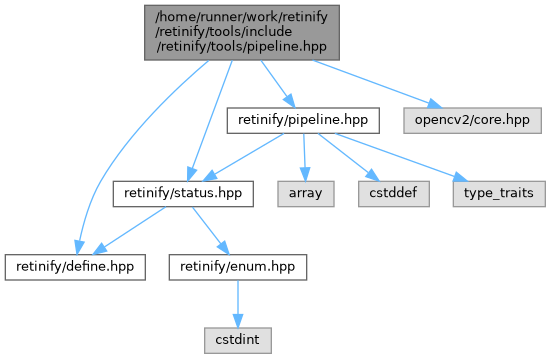
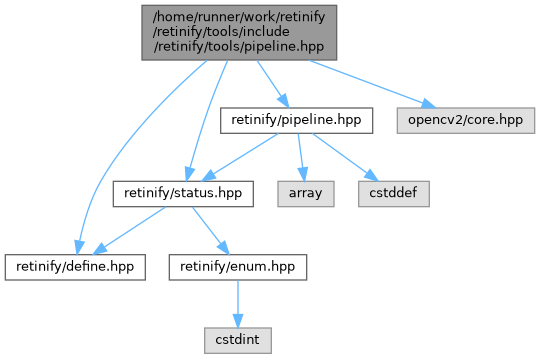
deploy: 53f699b59821ff838156896381415b0f55b13c6b

diff --git a/core_2include_2retinify_2pipeline_8hpp_source.html b/core_2include_2retinify_2pipeline_8hpp_source.html
@@ -115,37 +115,36 @@ $(document).ready(function(){initNavTree('core_2include_2retinify_2pipeline_8hpp
 <div class="line"><a id="l00007" name="l00007"></a><span class="lineno">    7</span> </div>
 <div class="line"><a id="l00008" name="l00008"></a><span class="lineno">    8</span><span class="preprocessor">#include &lt;array&gt;</span></div>
 <div class="line"><a id="l00009" name="l00009"></a><span class="lineno">    9</span><span class="preprocessor">#include &lt;cstddef&gt;</span></div>
-<div class="line"><a id="l00010" name="l00010"></a><span class="lineno">   10</span><span class="preprocessor">#include &lt;type_traits&gt;</span></div>
-<div class="line"><a id="l00011" name="l00011"></a><span class="lineno">   11</span> </div>
-<div class="line"><a id="l00012" name="l00012"></a><span class="lineno">   12</span><span class="keyword">namespace </span><a class="code hl_namespace" href="namespaceretinify.html">retinify</a></div>
-<div class="line"><a id="l00013" name="l00013"></a><span class="lineno">   13</span>{</div>
-<div class="foldopen" id="foldopen00016" data-start="{" data-end="};">
-<div class="line"><a id="l00016" name="l00016"></a><span class="lineno"><a class="line" href="classretinify_1_1Pipeline.html">   16</a></span><span class="keyword">class </span><a class="code hl_define" href="define_8hpp.html#a26f652e8294f73d41c56d880ace92d28">RETINIFY_API</a> <a class="code hl_class" href="classretinify_1_1Pipeline.html">Pipeline</a></div>
-<div class="line"><a id="l00017" name="l00017"></a><span class="lineno">   17</span>{</div>
-<div class="line"><a id="l00018" name="l00018"></a><span class="lineno">   18</span>  <span class="keyword">public</span>:</div>
-<div class="line"><a id="l00019" name="l00019"></a><span class="lineno"><a class="line" href="classretinify_1_1Pipeline.html#aff420a8fba6a6584f4ef975dd2eed698">   19</a></span>    <a class="code hl_function" href="classretinify_1_1Pipeline.html#aff420a8fba6a6584f4ef975dd2eed698">Pipeline</a>() noexcept;</div>
-<div class="line"><a id="l00020" name="l00020"></a><span class="lineno"><a class="line" href="classretinify_1_1Pipeline.html#a2d1da2bea43ac3444ee70c3c123e61ff">   20</a></span>    ~<a class="code hl_class" href="classretinify_1_1Pipeline.html">Pipeline</a>() noexcept;</div>
-<div class="line"><a id="l00021" name="l00021"></a><span class="lineno"><a class="line" href="classretinify_1_1Pipeline.html#ab25709bd44d66d886c56657553fd25c1">   21</a></span>    <a class="code hl_class" href="classretinify_1_1Pipeline.html">Pipeline</a>(const <a class="code hl_class" href="classretinify_1_1Pipeline.html">Pipeline</a> &amp;) = delete;</div>
-<div class="line"><a id="l00022" name="l00022"></a><span class="lineno"><a class="line" href="classretinify_1_1Pipeline.html#a809c7fe1f191752098716700ab01ba22">   22</a></span>    auto operator=(const <a class="code hl_class" href="classretinify_1_1Pipeline.html">Pipeline</a> &amp;) noexcept -&gt; <a class="code hl_class" href="classretinify_1_1Pipeline.html">Pipeline</a> &amp; = delete;</div>
-<div class="line"><a id="l00023" name="l00023"></a><span class="lineno"><a class="line" href="classretinify_1_1Pipeline.html#a98b1af42c11f725a00e73b93a135e182">   23</a></span>    <a class="code hl_class" href="classretinify_1_1Pipeline.html">Pipeline</a>(<a class="code hl_class" href="classretinify_1_1Pipeline.html">Pipeline</a> &amp;&amp;) noexcept = delete;</div>
-<div class="line"><a id="l00024" name="l00024"></a><span class="lineno"><a class="line" href="classretinify_1_1Pipeline.html#a33c3b968a968193cbe9bbeab89919e06">   24</a></span>    auto operator=(<a class="code hl_class" href="classretinify_1_1Pipeline.html">Pipeline</a> &amp;&amp;) noexcept -&gt; <a class="code hl_class" href="classretinify_1_1Pipeline.html">Pipeline</a> &amp; = delete;</div>
-<div class="line"><a id="l00025" name="l00025"></a><span class="lineno">   25</span> </div>
-<div class="line"><a id="l00034" name="l00034"></a><span class="lineno"><a class="line" href="classretinify_1_1Pipeline.html#a58bf1412b87dbce28ed35f855cee9a6a">   34</a></span>    [[nodiscard]] auto Initialize(std::<span class="keywordtype">size_t</span> imageHeight, std::<span class="keywordtype">size_t</span> imageWidth) noexcept -&gt; <a class="code hl_class" href="classretinify_1_1Status.html">Status</a>;</div>
-<div class="line"><a id="l00035" name="l00035"></a><span class="lineno">   35</span> </div>
-<div class="line"><a id="l00052" name="l00052"></a><span class="lineno"><a class="line" href="classretinify_1_1Pipeline.html#a8a88e85bf34dd801031544ee94c57b03">   52</a></span>    [[nodiscard]] auto Run(const <span class="keywordtype">void</span> *leftImageData, std::<span class="keywordtype">size_t</span> leftImageStride,   <span class="comment">//</span></div>
-<div class="line"><a id="l00053" name="l00053"></a><span class="lineno">   53</span>                           const <span class="keywordtype">void</span> *rightImageData, std::<span class="keywordtype">size_t</span> rightImageStride, <span class="comment">//</span></div>
-<div class="line"><a id="l00054" name="l00054"></a><span class="lineno">   54</span>                           <span class="keywordtype">void</span> *disparityData, std::<span class="keywordtype">size_t</span> disparityStride) const noexcept -&gt; <a class="code hl_class" href="classretinify_1_1Status.html">Status</a>;</div>
-<div class="line"><a id="l00055" name="l00055"></a><span class="lineno">   55</span> </div>
-<div class="line"><a id="l00056" name="l00056"></a><span class="lineno">   56</span>  private:</div>
-<div class="line"><a id="l00057" name="l00057"></a><span class="lineno">   57</span>    class Impl;</div>
-<div class="line"><a id="l00058" name="l00058"></a><span class="lineno">   58</span>    auto impl() noexcept -&gt; Impl *;</div>
-<div class="line"><a id="l00059" name="l00059"></a><span class="lineno">   59</span>    [[nodiscard]] auto impl() const noexcept -&gt; const Impl *;</div>
-<div class="line"><a id="l00060" name="l00060"></a><span class="lineno">   60</span>    static constexpr std::<span class="keywordtype">size_t</span> BufferSize = 512;</div>
-<div class="line"><a id="l00061" name="l00061"></a><span class="lineno">   61</span>    alignas(alignof(std::max_align_t)) std::array&lt;<span class="keywordtype">unsigned</span> <span class="keywordtype">char</span>, BufferSize&gt; buffer_{};</div>
-<div class="line"><a id="l00062" name="l00062"></a><span class="lineno">   62</span>};</div>
+<div class="line"><a id="l00010" name="l00010"></a><span class="lineno">   10</span> </div>
+<div class="line"><a id="l00011" name="l00011"></a><span class="lineno">   11</span><span class="keyword">namespace </span><a class="code hl_namespace" href="namespaceretinify.html">retinify</a></div>
+<div class="line"><a id="l00012" name="l00012"></a><span class="lineno">   12</span>{</div>
+<div class="foldopen" id="foldopen00015" data-start="{" data-end="};">
+<div class="line"><a id="l00015" name="l00015"></a><span class="lineno"><a class="line" href="classretinify_1_1Pipeline.html">   15</a></span><span class="keyword">class </span><a class="code hl_define" href="define_8hpp.html#a26f652e8294f73d41c56d880ace92d28">RETINIFY_API</a> <a class="code hl_class" href="classretinify_1_1Pipeline.html">Pipeline</a></div>
+<div class="line"><a id="l00016" name="l00016"></a><span class="lineno">   16</span>{</div>
+<div class="line"><a id="l00017" name="l00017"></a><span class="lineno">   17</span>  <span class="keyword">public</span>:</div>
+<div class="line"><a id="l00018" name="l00018"></a><span class="lineno"><a class="line" href="classretinify_1_1Pipeline.html#aff420a8fba6a6584f4ef975dd2eed698">   18</a></span>    <a class="code hl_function" href="classretinify_1_1Pipeline.html#aff420a8fba6a6584f4ef975dd2eed698">Pipeline</a>() noexcept;</div>
+<div class="line"><a id="l00019" name="l00019"></a><span class="lineno"><a class="line" href="classretinify_1_1Pipeline.html#a2d1da2bea43ac3444ee70c3c123e61ff">   19</a></span>    ~<a class="code hl_class" href="classretinify_1_1Pipeline.html">Pipeline</a>() noexcept;</div>
+<div class="line"><a id="l00020" name="l00020"></a><span class="lineno"><a class="line" href="classretinify_1_1Pipeline.html#ab25709bd44d66d886c56657553fd25c1">   20</a></span>    <a class="code hl_class" href="classretinify_1_1Pipeline.html">Pipeline</a>(const <a class="code hl_class" href="classretinify_1_1Pipeline.html">Pipeline</a> &amp;) = delete;</div>
+<div class="line"><a id="l00021" name="l00021"></a><span class="lineno"><a class="line" href="classretinify_1_1Pipeline.html#a809c7fe1f191752098716700ab01ba22">   21</a></span>    auto operator=(const <a class="code hl_class" href="classretinify_1_1Pipeline.html">Pipeline</a> &amp;) noexcept -&gt; <a class="code hl_class" href="classretinify_1_1Pipeline.html">Pipeline</a> &amp; = delete;</div>
+<div class="line"><a id="l00022" name="l00022"></a><span class="lineno"><a class="line" href="classretinify_1_1Pipeline.html#a98b1af42c11f725a00e73b93a135e182">   22</a></span>    <a class="code hl_class" href="classretinify_1_1Pipeline.html">Pipeline</a>(<a class="code hl_class" href="classretinify_1_1Pipeline.html">Pipeline</a> &amp;&amp;) noexcept = delete;</div>
+<div class="line"><a id="l00023" name="l00023"></a><span class="lineno"><a class="line" href="classretinify_1_1Pipeline.html#a33c3b968a968193cbe9bbeab89919e06">   23</a></span>    auto operator=(<a class="code hl_class" href="classretinify_1_1Pipeline.html">Pipeline</a> &amp;&amp;) noexcept -&gt; <a class="code hl_class" href="classretinify_1_1Pipeline.html">Pipeline</a> &amp; = delete;</div>
+<div class="line"><a id="l00024" name="l00024"></a><span class="lineno">   24</span> </div>
+<div class="line"><a id="l00033" name="l00033"></a><span class="lineno"><a class="line" href="classretinify_1_1Pipeline.html#a58bf1412b87dbce28ed35f855cee9a6a">   33</a></span>    [[nodiscard]] auto Initialize(std::<span class="keywordtype">size_t</span> imageHeight, std::<span class="keywordtype">size_t</span> imageWidth) noexcept -&gt; <a class="code hl_class" href="classretinify_1_1Status.html">Status</a>;</div>
+<div class="line"><a id="l00034" name="l00034"></a><span class="lineno">   34</span> </div>
+<div class="line"><a id="l00051" name="l00051"></a><span class="lineno"><a class="line" href="classretinify_1_1Pipeline.html#a8a88e85bf34dd801031544ee94c57b03">   51</a></span>    [[nodiscard]] auto Run(const <span class="keywordtype">void</span> *leftImageData, std::<span class="keywordtype">size_t</span> leftImageStride,   <span class="comment">//</span></div>
+<div class="line"><a id="l00052" name="l00052"></a><span class="lineno">   52</span>                           const <span class="keywordtype">void</span> *rightImageData, std::<span class="keywordtype">size_t</span> rightImageStride, <span class="comment">//</span></div>
+<div class="line"><a id="l00053" name="l00053"></a><span class="lineno">   53</span>                           <span class="keywordtype">void</span> *disparityData, std::<span class="keywordtype">size_t</span> disparityStride) const noexcept -&gt; <a class="code hl_class" href="classretinify_1_1Status.html">Status</a>;</div>
+<div class="line"><a id="l00054" name="l00054"></a><span class="lineno">   54</span> </div>
+<div class="line"><a id="l00055" name="l00055"></a><span class="lineno">   55</span>  private:</div>
+<div class="line"><a id="l00056" name="l00056"></a><span class="lineno">   56</span>    class Impl;</div>
+<div class="line"><a id="l00057" name="l00057"></a><span class="lineno">   57</span>    auto impl() noexcept -&gt; Impl *;</div>
+<div class="line"><a id="l00058" name="l00058"></a><span class="lineno">   58</span>    [[nodiscard]] auto impl() const noexcept -&gt; const Impl *;</div>
+<div class="line"><a id="l00059" name="l00059"></a><span class="lineno">   59</span>    static constexpr std::<span class="keywordtype">size_t</span> BufferSize = 2048;</div>
+<div class="line"><a id="l00060" name="l00060"></a><span class="lineno">   60</span>    alignas(alignof(std::max_align_t)) std::array&lt;<span class="keywordtype">unsigned</span> <span class="keywordtype">char</span>, BufferSize&gt; buffer_{};</div>
+<div class="line"><a id="l00061" name="l00061"></a><span class="lineno">   61</span>};</div>
 </div>
-<div class="line"><a id="l00063" name="l00063"></a><span class="lineno">   63</span>} <span class="comment">// namespace retinify</span></div>
-<div class="ttc" id="aclassretinify_1_1Pipeline_html"><div class="ttname"><a href="classretinify_1_1Pipeline.html">retinify::Pipeline</a></div><div class="ttdoc">This class provides an interface for running a stereo matching pipeline.</div><div class="ttdef"><b>Definition</b> pipeline.hpp:17</div></div>
+<div class="line"><a id="l00062" name="l00062"></a><span class="lineno">   62</span>} <span class="comment">// namespace retinify</span></div>
+<div class="ttc" id="aclassretinify_1_1Pipeline_html"><div class="ttname"><a href="classretinify_1_1Pipeline.html">retinify::Pipeline</a></div><div class="ttdoc">This class provides an interface for running a stereo matching pipeline.</div><div class="ttdef"><b>Definition</b> pipeline.hpp:16</div></div>
 <div class="ttc" id="aclassretinify_1_1Pipeline_html_aff420a8fba6a6584f4ef975dd2eed698"><div class="ttname"><a href="classretinify_1_1Pipeline.html#aff420a8fba6a6584f4ef975dd2eed698">retinify::Pipeline::Pipeline</a></div><div class="ttdeci">Pipeline() noexcept</div></div>
 <div class="ttc" id="aclassretinify_1_1Status_html"><div class="ttname"><a href="classretinify_1_1Status.html">retinify::Status</a></div><div class="ttdoc">This class represents the status of an operation in the retinify library.</div><div class="ttdef"><b>Definition</b> status.hpp:14</div></div>
 <div class="ttc" id="adefine_8hpp_html_a26f652e8294f73d41c56d880ace92d28"><div class="ttname"><a href="define_8hpp.html#a26f652e8294f73d41c56d880ace92d28">RETINIFY_API</a></div><div class="ttdeci">#define RETINIFY_API</div><div class="ttdoc">Defines a macro for setting API visibility to &quot;default&quot; for the retinify library.</div><div class="ttdef"><b>Definition</b> define.hpp:8</div></div>

diff --git a/tools_2include_2retinify_2tools_2pipeline_8hpp.html b/tools_2include_2retinify_2tools_2pipeline_8hpp.html
@@ -114,22 +114,20 @@ Include dependency graph for pipeline.hpp:</div>
 <div class="dyncontent">
 <div class="center"><img src="tools_2include_2retinify_2tools_2pipeline_8hpp__incl.png" border="0" usemap="#a_2home_2runner_2work_2retinify_2retinify_2tools_2include_2retinify_2tools_2pipeline_8hpp" alt=""/></div>
 <map name="a_2home_2runner_2work_2retinify_2retinify_2tools_2include_2retinify_2tools_2pipeline_8hpp" id="a_2home_2runner_2work_2retinify_2retinify_2tools_2include_2retinify_2tools_2pipeline_8hpp">
-<area shape="rect" title=" " alt="" coords="145,5,339,60"/>
+<area shape="rect" title=" " alt="" coords="142,5,337,60"/>
 <area shape="rect" href="define_8hpp.html" title=" " alt="" coords="5,255,145,280"/>
-<area shape="poly" title=" " alt="" coords="211,62,155,115,127,147,103,183,90,212,82,241,77,240,85,211,98,180,123,144,151,111,207,59"/>
-<area shape="rect" href="core_2include_2retinify_2pipeline_8hpp.html" title=" " alt="" coords="227,108,379,133"/>
-<area shape="poly" title=" " alt="" coords="263,59,289,95,285,98,259,62"/>
+<area shape="poly" title=" " alt="" coords="209,62,155,114,127,147,103,183,90,212,82,241,77,240,85,211,98,180,123,144,151,111,205,58"/>
+<area shape="rect" href="core_2include_2retinify_2pipeline_8hpp.html" title=" " alt="" coords="221,108,373,133"/>
+<area shape="poly" title=" " alt="" coords="259,59,283,95,279,98,255,62"/>
 <area shape="rect" href="status_8hpp.html" title=" " alt="" coords="113,181,253,207"/>
-<area shape="poly" title=" " alt="" coords="235,61,195,169,190,168,230,59"/>
-<area shape="rect" title=" " alt="" coords="404,108,541,133"/>
-<area shape="poly" title=" " alt="" coords="313,58,430,101,428,106,312,63"/>
-<area shape="poly" title=" " alt="" coords="285,136,216,176,214,172,283,131"/>
+<area shape="poly" title=" " alt="" coords="230,61,211,109,193,169,187,167,206,107,225,59"/>
+<area shape="rect" title=" " alt="" coords="397,108,535,133"/>
+<area shape="poly" title=" " alt="" coords="310,58,424,101,422,106,308,63"/>
+<area shape="poly" title=" " alt="" coords="280,136,215,176,212,172,277,131"/>
 <area shape="rect" title=" " alt="" coords="278,181,334,207"/>
-<area shape="poly" title=" " alt="" coords="306,134,308,168,302,168,301,134"/>
+<area shape="poly" title=" " alt="" coords="301,133,305,167,300,168,296,134"/>
 <area shape="rect" title=" " alt="" coords="359,181,429,207"/>
-<area shape="poly" title=" " alt="" coords="320,131,370,170,367,175,316,135"/>
-<area shape="rect" title=" " alt="" coords="453,181,545,207"/>
-<area shape="poly" title=" " alt="" coords="336,131,455,174,454,179,334,136"/>
+<area shape="poly" title=" " alt="" coords="314,131,368,171,365,175,311,136"/>
 <area shape="poly" title=" " alt="" coords="167,209,106,249,103,245,165,204"/>
 <area shape="rect" href="enum_8hpp.html" title=" " alt="" coords="169,255,307,280"/>
 <area shape="poly" title=" " alt="" coords="194,205,223,242,219,245,190,209"/>

diff --git a/core_2include_2retinify_2pipeline_8hpp.html b/core_2include_2retinify_2pipeline_8hpp.html
@@ -107,21 +107,18 @@ $(document).ready(function(){initNavTree('core_2include_2retinify_2pipeline_8hpp
 <div class="textblock"><code>#include &quot;<a class="el" href="status_8hpp_source.html">retinify/status.hpp</a>&quot;</code><br />
 <code>#include &lt;array&gt;</code><br />
 <code>#include &lt;cstddef&gt;</code><br />
-<code>#include &lt;type_traits&gt;</code><br />
 </div><div class="textblock"><div class="dynheader">
 Include dependency graph for pipeline.hpp:</div>
 <div class="dyncontent">
 <div class="center"><img src="core_2include_2retinify_2pipeline_8hpp__incl.png" border="0" usemap="#a_2home_2runner_2work_2retinify_2retinify_2core_2include_2retinify_2pipeline_8hpp" alt=""/></div>
 <map name="a_2home_2runner_2work_2retinify_2retinify_2core_2include_2retinify_2pipeline_8hpp" id="a_2home_2runner_2work_2retinify_2retinify_2core_2include_2retinify_2pipeline_8hpp">
-<area shape="rect" title=" " alt="" coords="221,5,426,60"/>
+<area shape="rect" title=" " alt="" coords="177,5,382,60"/>
 <area shape="rect" href="status_8hpp.html" title=" " alt="" coords="87,108,227,133"/>
-<area shape="poly" title=" " alt="" coords="274,62,192,104,190,99,271,58"/>
+<area shape="poly" title=" " alt="" coords="243,62,186,102,183,98,240,58"/>
 <area shape="rect" title=" " alt="" coords="251,108,307,133"/>
-<area shape="poly" title=" " alt="" coords="312,61,294,97,289,94,308,59"/>
+<area shape="poly" title=" " alt="" coords="282,60,282,94,277,94,277,60"/>
 <area shape="rect" title=" " alt="" coords="332,108,403,133"/>
-<area shape="poly" title=" " alt="" coords="339,59,357,94,353,97,334,61"/>
-<area shape="rect" title=" " alt="" coords="427,108,519,133"/>
-<area shape="poly" title=" " alt="" coords="370,58,442,99,439,103,368,62"/>
+<area shape="poly" title=" " alt="" coords="308,58,348,96,344,100,304,62"/>
 <area shape="rect" href="define_8hpp.html" title=" " alt="" coords="5,181,145,207"/>
 <area shape="poly" title=" " alt="" coords="145,135,101,174,97,170,142,131"/>
 <area shape="rect" href="enum_8hpp.html" title=" " alt="" coords="169,181,307,207"/>

diff --git a/tools_2include_2retinify_2tools_2pipeline_8hpp_source.html b/tools_2include_2retinify_2tools_2pipeline_8hpp_source.html
@@ -158,7 +158,7 @@ $(document).ready(function(){initNavTree('tools_2include_2retinify_2tools_2pipel
 </div>
 <div class="line"><a id="l00088" name="l00088"></a><span class="lineno">   88</span>} <span class="comment">// namespace retinify::tools</span></div>
 </div>
-<div class="ttc" id="aclassretinify_1_1Pipeline_html"><div class="ttname"><a href="classretinify_1_1Pipeline.html">retinify::Pipeline</a></div><div class="ttdoc">This class provides an interface for running a stereo matching pipeline.</div><div class="ttdef"><b>Definition</b> pipeline.hpp:17</div></div>
+<div class="ttc" id="aclassretinify_1_1Pipeline_html"><div class="ttname"><a href="classretinify_1_1Pipeline.html">retinify::Pipeline</a></div><div class="ttdoc">This class provides an interface for running a stereo matching pipeline.</div><div class="ttdef"><b>Definition</b> pipeline.hpp:16</div></div>
 <div class="ttc" id="aclassretinify_1_1Status_html"><div class="ttname"><a href="classretinify_1_1Status.html">retinify::Status</a></div><div class="ttdoc">This class represents the status of an operation in the retinify library.</div><div class="ttdef"><b>Definition</b> status.hpp:14</div></div>
 <div class="ttc" id="aclassretinify_1_1tools_1_1StereoMatchingPipeline_html"><div class="ttname"><a href="classretinify_1_1tools_1_1StereoMatchingPipeline.html">retinify::tools::StereoMatchingPipeline</a></div><div class="ttdoc">This class provides an interface for running a stereo matching pipeline using OpenCV.</div><div class="ttdef"><b>Definition</b> pipeline.hpp:29</div></div>
 <div class="ttc" id="aclassretinify_1_1tools_1_1StereoMatchingPipeline_html_a8c062a7ff5cf2cad8cd3c70e4880bf42"><div class="ttname"><a href="classretinify_1_1tools_1_1StereoMatchingPipeline.html#a8c062a7ff5cf2cad8cd3c70e4880bf42">retinify::tools::StereoMatchingPipeline::StereoMatchingPipeline</a></div><div class="ttdeci">StereoMatchingPipeline() noexcept=default</div></div>
